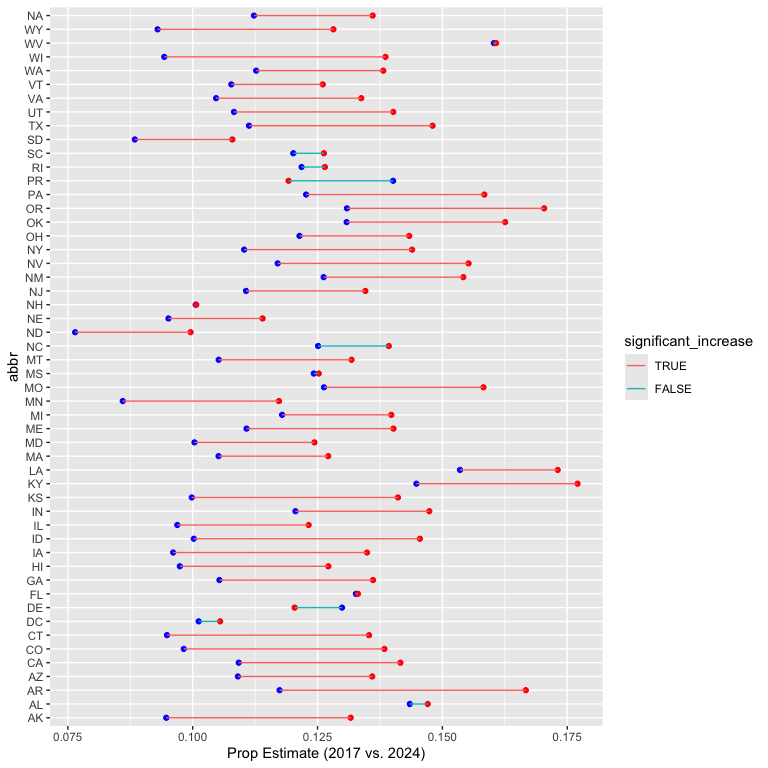
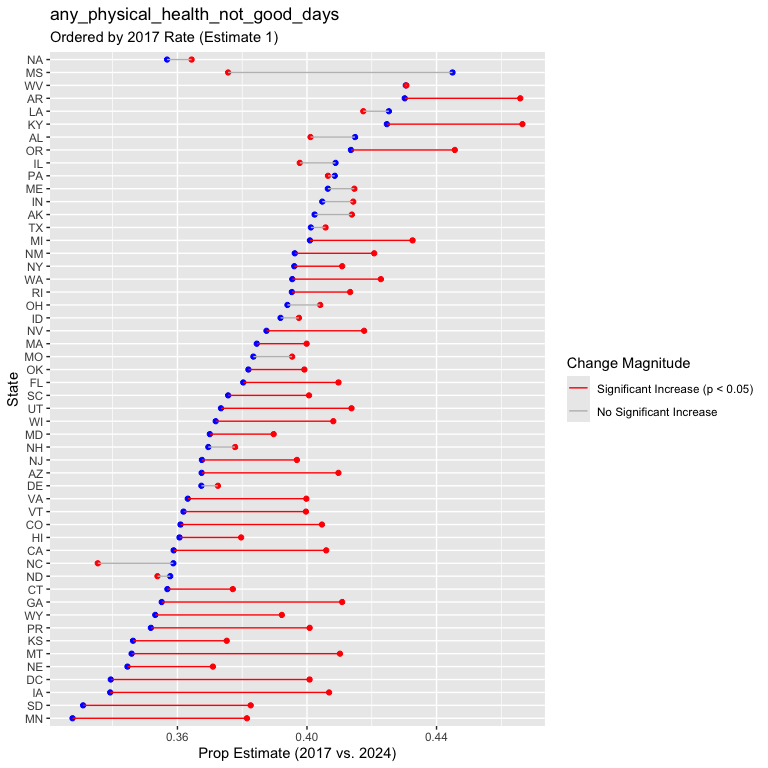
adding plots for prop tests

diff --git a/brfss_prop_tests.md b/brfss_prop_tests.md
@@ -3,37 +3,37 @@ brfss_prop_tests
 Shivalika Chavan
 2025-11-23
 
-Writing function for running prop test
+Writing function for running prop test by year
 
 ``` r
 run_prop_test_state = function(state_df){
   
   counts = 
     state_df |> 
-    group_by(year = year(date), mental_health_not_good_days) |>
+    group_by(year = year(date), outcome_value) |>
     summarize(
       n = n(), 
       .groups = "drop"
-    ) |> 
+      ) |> 
+    filter(!is.na(outcome_value)) |> 
     pivot_wider(
-      names_from = mental_health_not_good_days,
+      names_from = outcome_value,
       values_from = n
-    ) |> 
-    mutate(total_responses = `0` + `1-13` + `14+`) |> 
-    select(`14+`, total_responses)
+      ) |> 
+    mutate(
+      total_responses = `TRUE` + `FALSE`
+      ) 
   
-  bad_mental_health_14_counts <- counts |> pull(`14+`)
-  total_counts <- counts |> pull(total_responses)
+  x_poor_outcome <- counts |> pull(`TRUE`)
+  n_total_counts <- counts |> pull(total_responses)
   
   if (nrow(counts) < 2) {
-    return(tibble(
-      NA
-    ))
+    return(tibble(NA))
   }
   
   prop_test_result <- prop.test(
-    x = bad_mental_health_14_counts, 
-    n = total_counts, 
+    x = x_poor_outcome, 
+    n = n_total_counts, 
     alternative = "less", 
     conf.level = 0.95
   ) 
@@ -44,84 +44,104 @@ run_prop_test_state = function(state_df){
 }
 ```
 
-Testing function
-
-``` r
-brfss_data |> 
-  filter(year(date) %in% c(2017, 2024)) |> 
-  filter(state == 36) |> 
-  run_prop_test_state()
-## # A tibble: 1 × 9
-##   estimate1 estimate2 statistic  p.value parameter conf.low conf.high method    
-##       <dbl>     <dbl>     <dbl>    <dbl>     <dbl>    <dbl>     <dbl> <chr>     
-## 1     0.110     0.144      70.4 2.39e-17         1       -1   -0.0274 2-sample …
-## # ℹ 1 more variable: alternative <chr>
-
-
-brfss_data |> 
-  filter(year(date) %in% c(2017, 2024)) |> 
-  filter(state == 47) |> 
-  run_prop_test_state()
-## # A tibble: 1 × 1
-##   `NA` 
-##   <lgl>
-## 1 NA
-```
+Function for running prop test for a single outcome
 
 Mapping across all states
 
 ``` r
+
+# any_physical_health_not_good_days, any_mental_health_not_good_days, 
+#         has_depressive_disorder, has_binge_drink,
+
+outcome_vars <- c("any_physical_health_not_good_days", "any_mental_health_not_good_days",
+                  "has_depressive_disorder", "has_binge_drink")
+
 prop_tests_state = 
   brfss_data |> 
   filter(year(date) %in% c(2017, 2024)) |>
-  select(state, date, mental_health_not_good_days) |>
-  group_by(state) |>
+  select(state, date, all_of(outcome_vars)) |>
+  pivot_longer(
+        cols = all_of(outcome_vars),
+        names_to = "outcome",
+        values_to = "outcome_value" 
+    ) |>
+  group_by(state, outcome) |>
   nest() |> 
   mutate(
     test_result = map(data, run_prop_test_state)
   ) |> 
   select(-data) |> 
   unnest(cols = c(test_result)) |> 
-  select(state, estimate1, estimate2, p.value, conf.low, conf.high) |> 
+  select(state, outcome, estimate1, estimate2, p.value, conf.low, conf.high) |> 
   mutate(
     significant_increase = p.value < 0.05
   )
 
 prop_tests_state
-## # A tibble: 54 × 7
-## # Groups:   state [54]
-##    state estimate1 estimate2  p.value conf.low conf.high significant_increase
-##    <dbl>     <dbl>     <dbl>    <dbl>    <dbl>     <dbl> <lgl>               
-##  1     1    0.143      0.147 3.22e- 1       -1   0.00869 FALSE               
-##  2     2    0.0947     0.132 1.26e- 6       -1  -0.0243  TRUE                
-##  3     4    0.109      0.136 2.35e- 8       -1  -0.0185  TRUE                
-##  4     5    0.117      0.167 2.96e-11       -1  -0.0368  TRUE                
-##  5     6    0.109      0.142 8.28e- 8       -1  -0.0221  TRUE                
-##  6     8    0.0982     0.138 1.09e-14       -1  -0.0316  TRUE                
-##  7     9    0.0949     0.135 1.12e-12       -1  -0.0304  TRUE                
-##  8    10    0.130      0.120 8.76e- 1       -1   0.0229  FALSE               
-##  9    11    0.101      0.105 3.14e- 1       -1   0.00949 FALSE               
-## 10    12    0.133      0.133 4.71e- 1       -1   0.00688 FALSE               
-## # ℹ 44 more rows
+## # A tibble: 216 × 8
+## # Groups:   state, outcome [216]
+##    state outcome                 estimate1 estimate2  p.value conf.low conf.high
+##    <dbl> <chr>                       <dbl>     <dbl>    <dbl>    <dbl>     <dbl>
+##  1     1 any_physical_health_no…    0.415      0.401 9.06e- 1       -1   0.0309 
+##  2     1 any_mental_health_not_…    0.346      0.384 9.13e- 5       -1  -0.0209 
+##  3     1 has_depressive_disorder    0.234      0.239 2.96e- 1       -1   0.00974
+##  4     1 has_binge_drink            0.0876     0.109 2.34e- 4       -1  -0.0112 
+##  5     2 any_physical_health_no…    0.402      0.414 1.72e- 1       -1   0.00829
+##  6     2 any_mental_health_not_…    0.321      0.405 2.98e-13       -1  -0.0652 
+##  7     2 has_depressive_disorder    0.171      0.210 2.79e- 5       -1  -0.0229 
+##  8     2 has_binge_drink            0.154      0.150 6.64e- 1       -1   0.0185 
+##  9     4 any_physical_health_no…    0.367      0.410 6.29e- 9       -1  -0.0299 
+## 10     4 any_mental_health_not_…    0.311      0.393 3.09e-30       -1  -0.0697 
+## # ℹ 206 more rows
+## # ℹ 1 more variable: significant_increase <lgl>
 ```
 
 ``` r
 plotting_df = 
   prop_tests_state |> 
+  rename(fips = state) |> 
+  left_join(state_fips, by = "fips") |> 
   drop_na(estimate1, estimate2) |>
   mutate(
     significant_increase = factor(significant_increase, levels = c(TRUE, FALSE))
-  ) |> 
-  rename(fips = state) |> 
-  left_join(state_fips, by = "fips")
+  ) 
+
+plot_outcome_props = function(df){
+  
+  outcome = unique(pull(df,outcome))
+  
+  df |> 
+    ggplot(aes(y = fct_reorder(abbr, estimate1))) + 
+    geom_point(aes(x = estimate1), color = "blue") +
+    geom_point(aes(x = estimate2), color = "red") +
+    geom_segment(aes(x = estimate1, xend = estimate2, color = significant_increase)) + 
+    xlab("Prop Estimate (2017 vs. 2024)") +
+    scale_color_manual(
+      values = c("TRUE" = "red", "FALSE" = "gray"),
+      labels = c("Significant Increase (p < 0.05)", "No Significant Increase"),
+      name = "Change Magnitude"
+    ) +
+    labs(
+      title = outcome,
+      subtitle = "Ordered by 2017 Rate (Estimate 1)",
+      x = "Prop Estimate (2017 vs. 2024)",
+      y = "State"
+    )
+}
   
 
-plotting_df |> 
-  ggplot(aes(y = abbr)) + 
-  geom_point(aes(x = estimate1), color = "blue") +
-  geom_point(aes(x = estimate2), color = "red") +
-  geom_segment(aes(x = estimate1, xend = estimate2, color = significant_increase))+
-  xlab("Prop Estimate (2017 vs. 2024)")
+outcome_vars_unique <- unique(pull(plotting_df,outcome))
+
+
+for (current_outcome in outcome_vars_unique) {
+  plot = 
+    plotting_df |>
+    filter(outcome == current_outcome) |> 
+    plot_outcome_props()
+  
+  print(plot)
+    
+}
 ```
 
-<img src="brfss_prop_tests_files/figure-gfm/unnamed-chunk-4-1.png" width="90%" />
+<img src="brfss_prop_tests_files/figure-gfm/unnamed-chunk-4-1.png" width="90%" /><img src="brfss_prop_tests_files/figure-gfm/unnamed-chunk-4-2.png" width="90%" /><img src="brfss_prop_tests_files/figure-gfm/unnamed-chunk-4-3.png" width="90%" /><img src="brfss_prop_tests_files/figure-gfm/unnamed-chunk-4-4.png" width="90%" />
